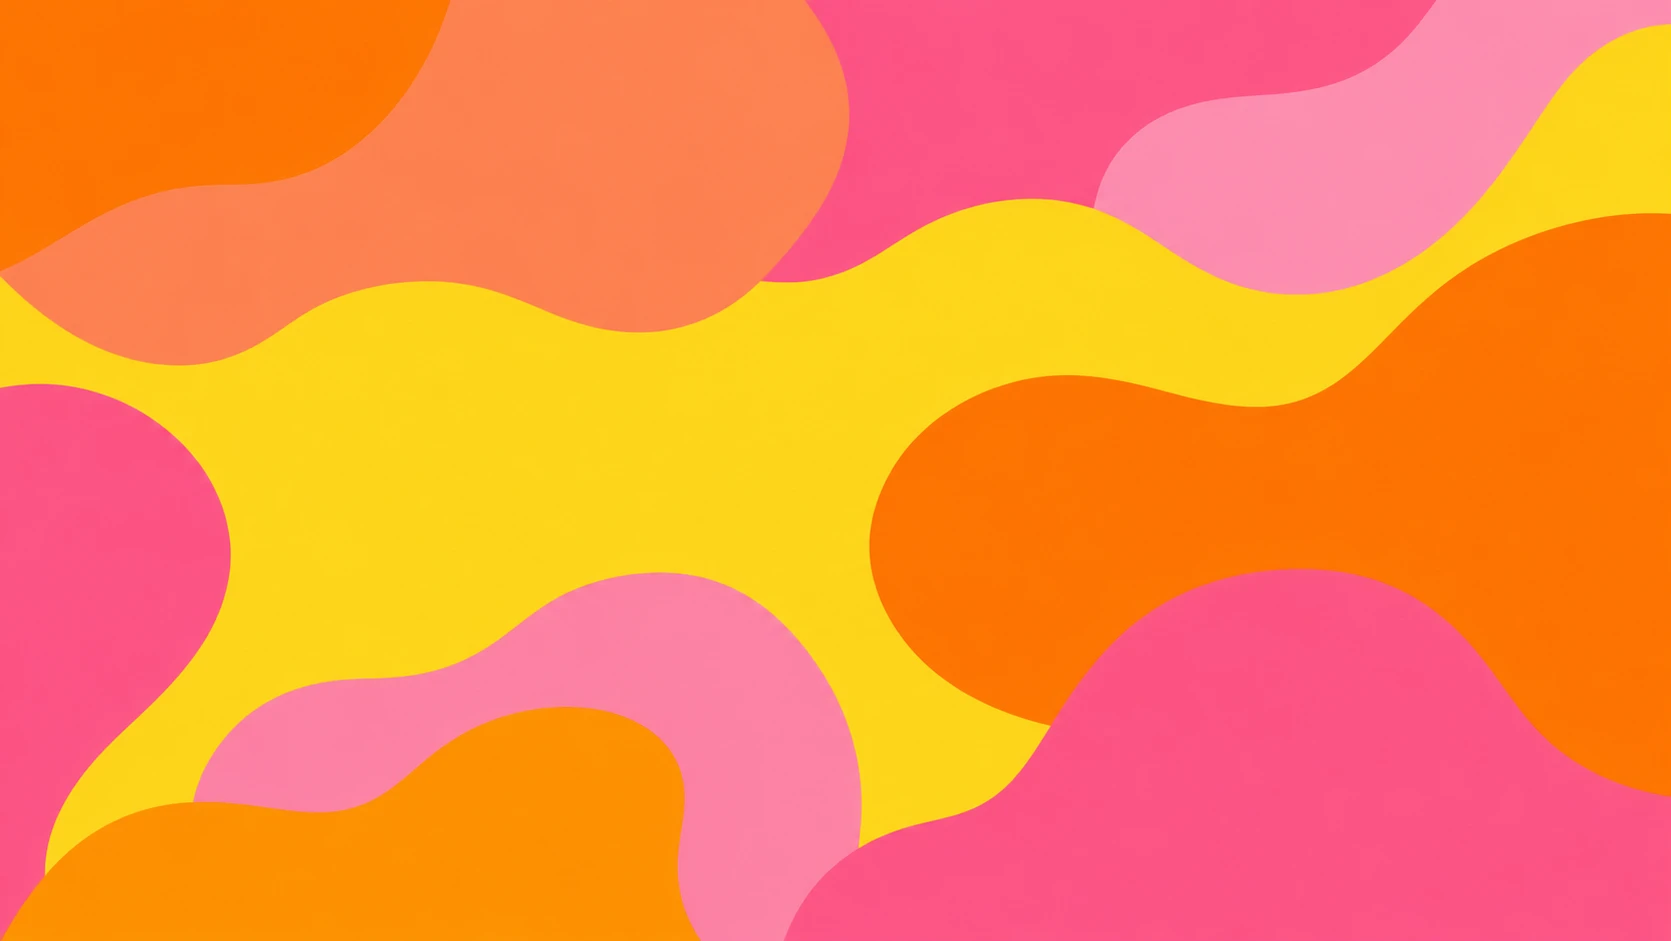
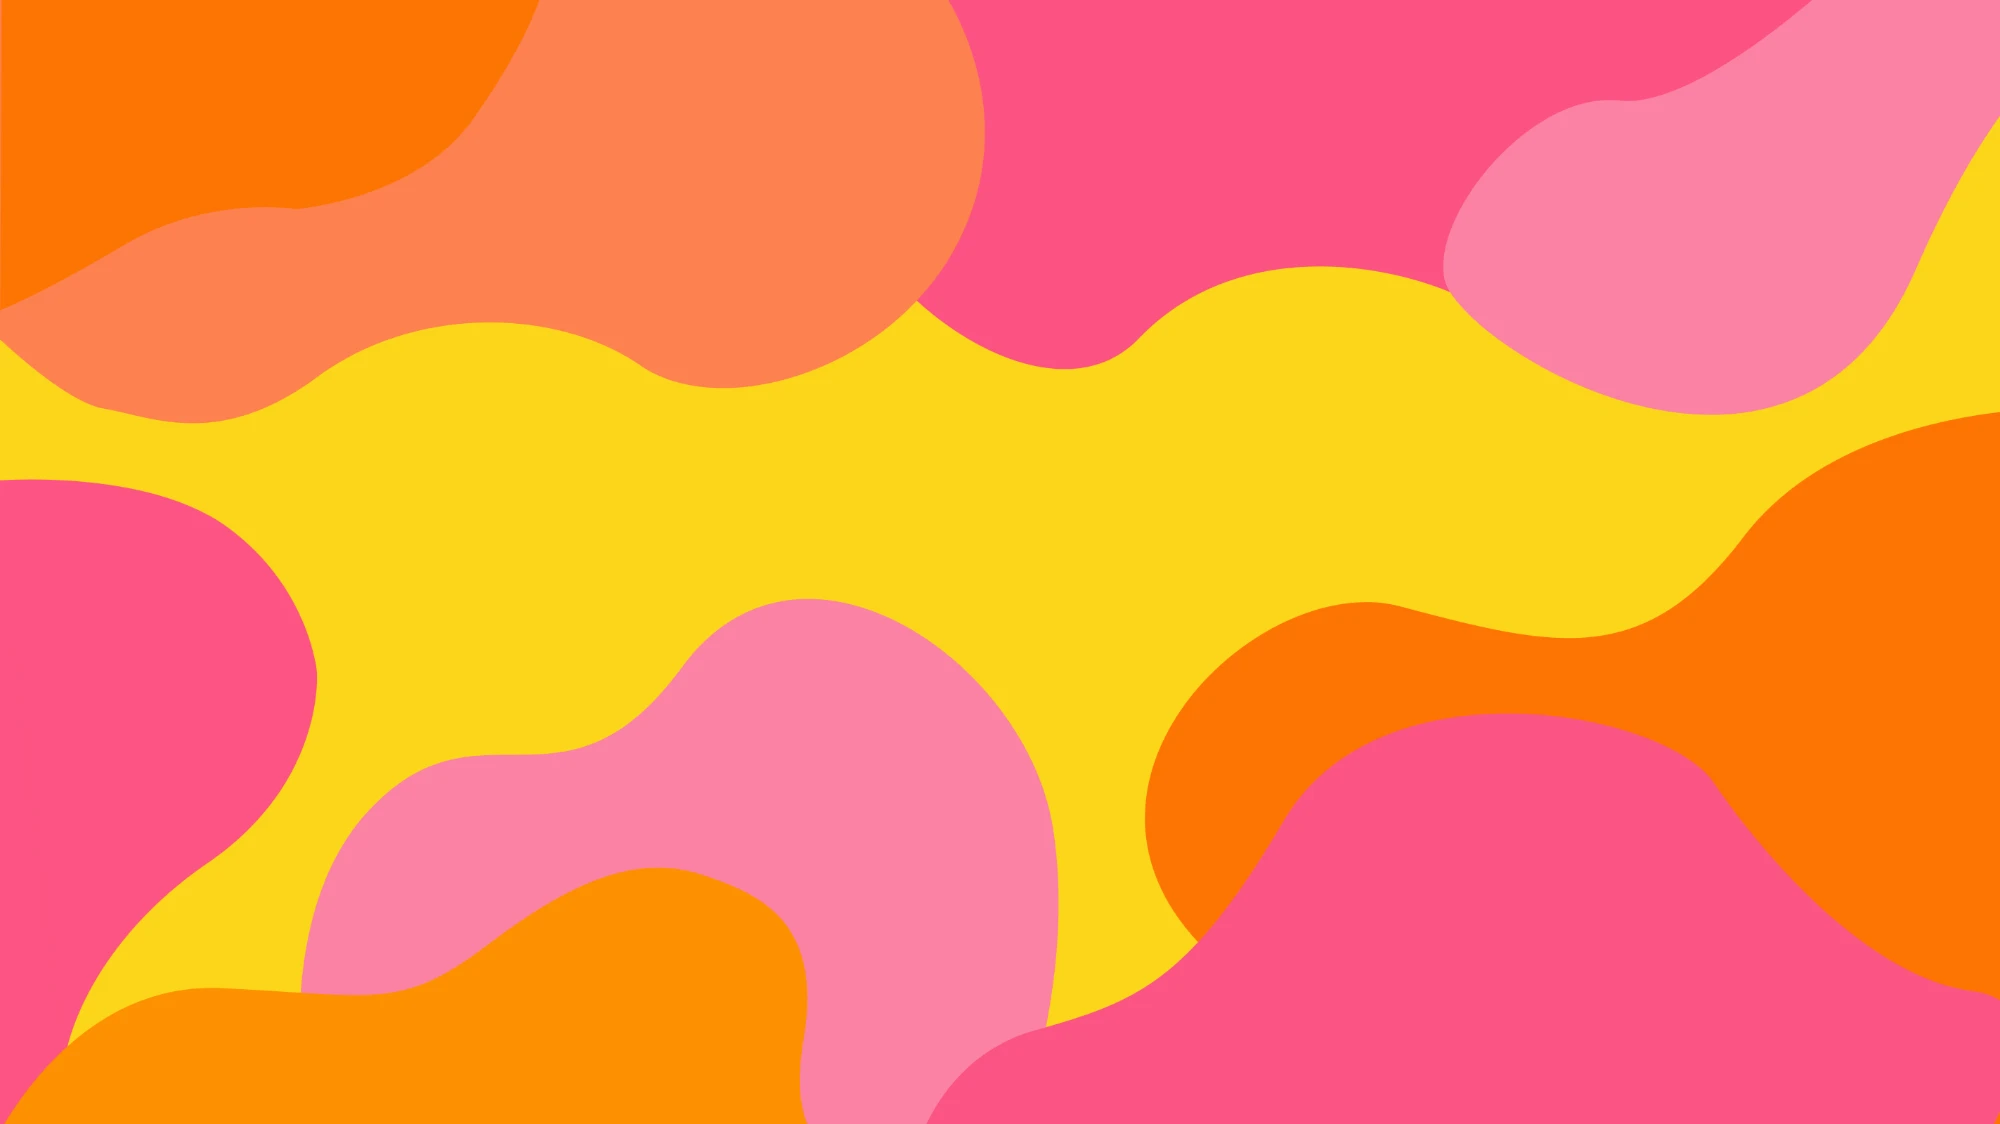
Replace the background artwork

diff --git a/index.html b/index.html
@@ -9,7 +9,7 @@
   <link rel="preconnect" href="https://fonts.gstatic.com" crossorigin>
   <link href="https://fonts.googleapis.com/css2?family=Bagel+Fat+One&family=Rubik:wght@500;700&display=swap" rel="stylesheet">
   <!-- Bump ?v= after each change so browsers load the new files instead of an old copy -->
-  <link rel="stylesheet" href="style.css?v=8">
+  <link rel="stylesheet" href="style.css?v=9">
 </head>
 <body>
   <main class="stage" id="stage" aria-label="Silhouettes to match"></main>
@@ -29,8 +29,8 @@
     <svg class="icon-exit" viewBox="0 0 24 24" aria-hidden="true"><path d="M9 4v5H4M15 4v5h5M9 20v-5H4M15 20v-5h5"/></svg>
   </button>
 
-  <script src="icons.js?v=8"></script>
-  <script src="scenes.js?v=8"></script>
-  <script src="script.js?v=8"></script>
+  <script src="icons.js?v=9"></script>
+  <script src="scenes.js?v=9"></script>
+  <script src="script.js?v=9"></script>
 </body>
 </html>

diff --git a/style.css b/style.css
@@ -9,7 +9,7 @@
 html, body { height: 100%; }
 
 body {
-  background: #ffd61f url("assets/background.webp") center / cover no-repeat;
+  background: #ffd61f url("assets/background.webp?v=2") center / cover no-repeat;
   color: var(--ink);
   font-family: "Rubik", system-ui, sans-serif;
   overflow: hidden;
